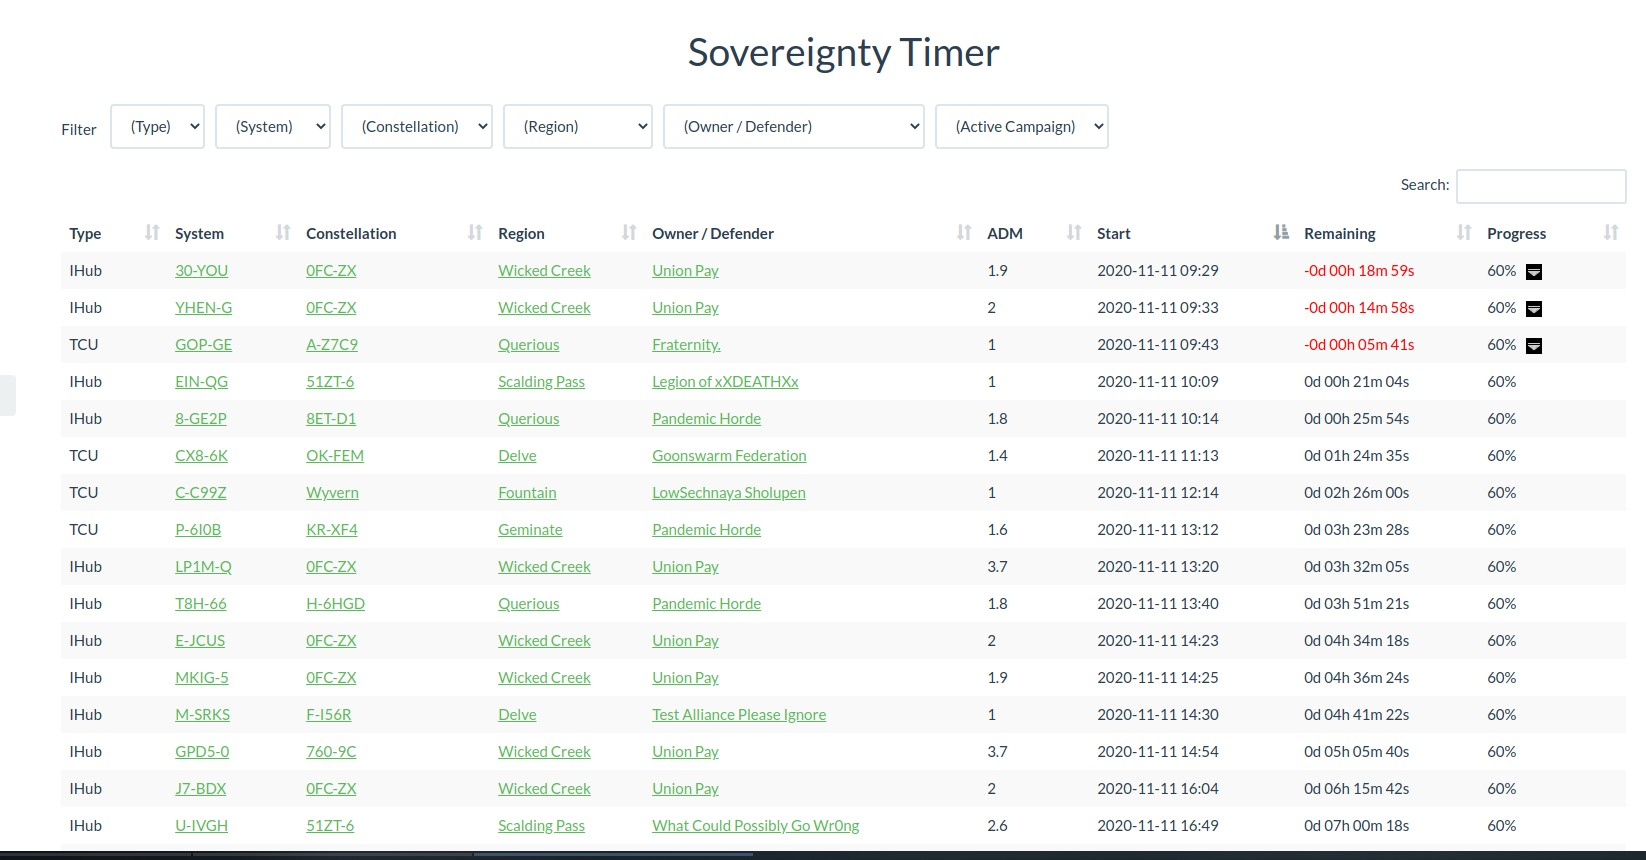
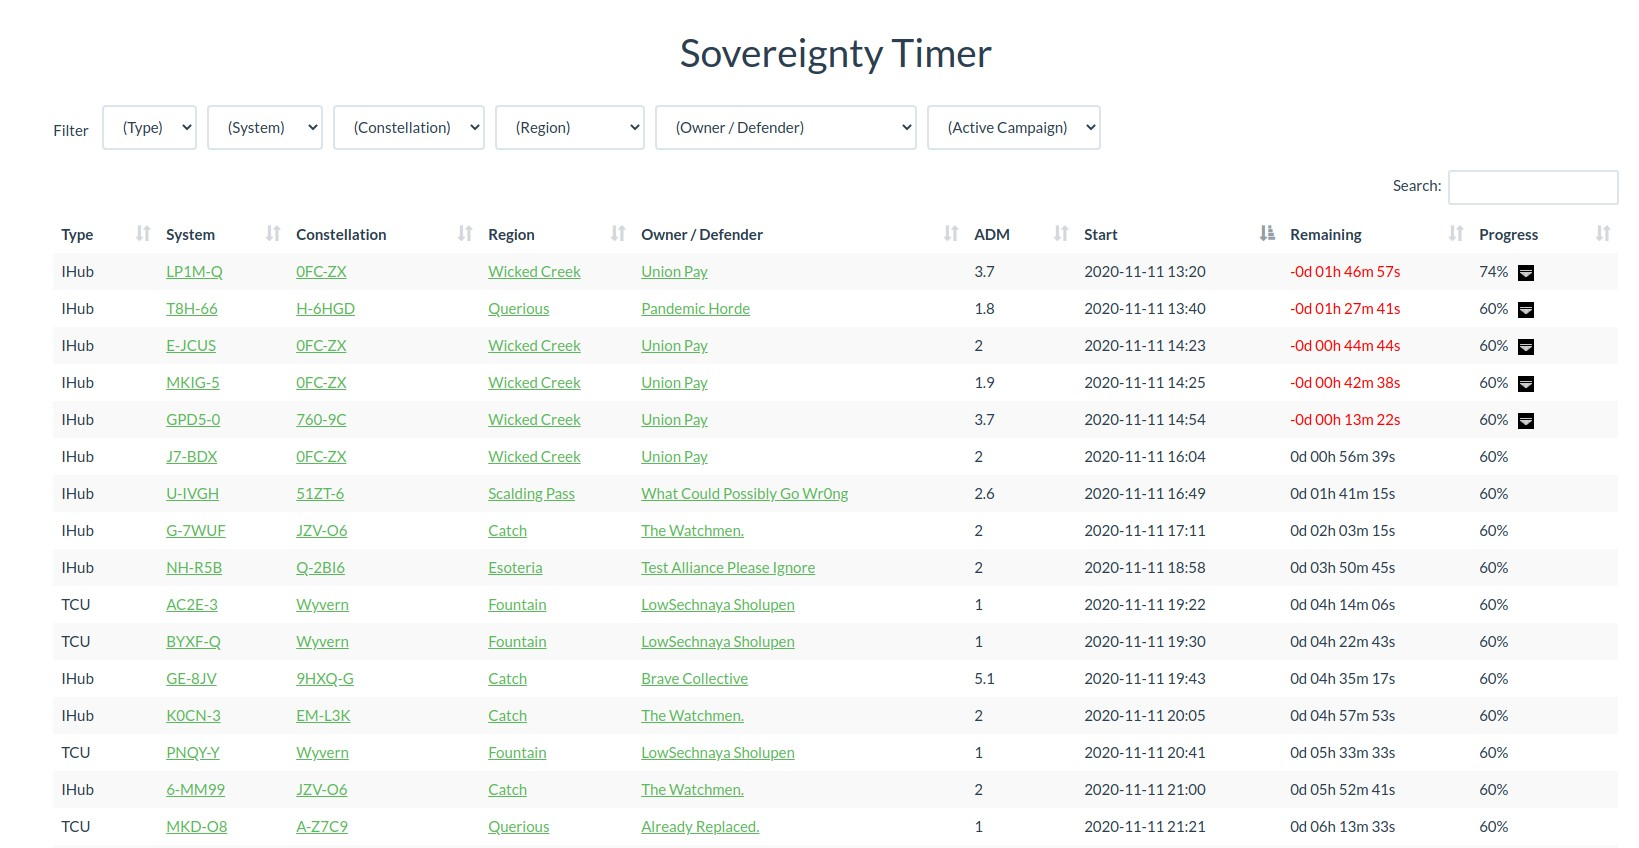
moved campaign update to scheduled task

diff --git a/sovtimer/views.py b/sovtimer/views.py
@@ -4,24 +4,24 @@
 the views
 """
 
-from sovtimer.utils import LoggerAddTag
+
+import datetime as dt
 
 from django.contrib.auth.decorators import login_required, permission_required
-
 from django.http import JsonResponse
 from django.shortcuts import render
 from django.utils.translation import gettext_lazy as _
 
+from eveuniverse.models import EveSolarSystem
+
 from sovtimer import __title__
 from sovtimer.app_settings import avoid_cdn
+from sovtimer.models import AaSovtimerCampaigns
+from sovtimer.providers import esi
+from sovtimer.utils import LoggerAddTag
 
 from allianceauth.services.hooks import get_extension_logger
 
-import datetime as dt
-
-from eveuniverse.models import EveSolarSystem
-
-from sovtimer.providers import esi
 
 logger = LoggerAddTag(get_extension_logger(__name__), __title__)
 
@@ -54,18 +54,16 @@ def dashboard(request):
 def dashboard_data(request) -> JsonResponse:
     data = list()
 
-    sovereignty_campaigns_esi = (
-        esi.client.Sovereignty.get_sovereignty_campaigns().results()
-    )
+    sovereignty_campaigns = AaSovtimerCampaigns.objects.all()
 
-    if sovereignty_campaigns_esi:
+    if sovereignty_campaigns:
         sovereignty_structures_esi = (
             esi.client.Sovereignty.get_sovereignty_structures().results()
         )
 
-        for campaign in sovereignty_campaigns_esi:
+        for campaign in sovereignty_campaigns:
             alliance_esi = esi.client.Alliance.get_alliances_alliance_id(
-                alliance_id=campaign["defender_id"]
+                alliance_id=campaign.defender_id
             ).results()
 
             defender_name = alliance_esi["name"]
@@ -76,9 +74,7 @@ def dashboard_data(request) -> JsonResponse:
                 )
             )
 
-            eve_solar_system = EveSolarSystem.objects.get(
-                id=campaign["solar_system_id"]
-            )
+            eve_solar_system = EveSolarSystem.objects.get(id=campaign.solar_system_id)
 
             solar_system_name = eve_solar_system.name
             solar_system_name_html = (
@@ -107,22 +103,22 @@ def dashboard_data(request) -> JsonResponse:
             structure_adm = 1
             for structure in sovereignty_structures_esi:
                 if (
-                    structure["solar_system_id"] == campaign["solar_system_id"]
+                    structure["solar_system_id"] == campaign.solar_system_id
                 ) and structure["vulnerability_occupancy_level"]:
                     structure_adm = structure["vulnerability_occupancy_level"]
 
-            start_time = campaign["start_time"].replace(tzinfo=None)
+            start_time = campaign.start_time.replace(tzinfo=None)
 
             remaining_time_in_seconds = dt.timedelta(
                 seconds=(start_time.timestamp() - dt.datetime.now().timestamp())
             ).total_seconds()
 
-            attackers_score = campaign["attackers_score"]
+            attackers_score = campaign.attackers_score
             attackers_score_percent = "{:.0f}%".format(attackers_score * 100)
             if (attackers_score * 100) < 10:
                 attackers_score_percent = "0" + attackers_score_percent
 
-            defender_score = campaign["defender_score"]
+            defender_score = campaign.defender_score
             defender_score_percent = "{:.0f}%".format(defender_score * 100)
             if (defender_score * 100) < 10:
                 defender_score_percent = "0" + defender_score_percent
@@ -135,26 +131,26 @@ def dashboard_data(request) -> JsonResponse:
                     '<a href="https://zkillboard.com/constellation/{constellation_id}/" '
                     'target="_blank" rel="noopener noreferer" '
                     'class="aa-sov-timer-zkb-icon">{zkb_icon}</a>'.format(
-                        constellation_id=campaign["constellation_id"],
+                        constellation_id=campaign.constellation_id,
                         zkb_icon='<img src="/static/sovtimer/images/zkillboard.png">',
                     )
                 )
 
             data.append(
                 {
-                    "campaign_id": campaign["campaign_id"],
-                    "event_type": MAP_EVENT_TO_TYPE[campaign["event_type"]],
-                    "solar_system_id": campaign["solar_system_id"],
+                    "campaign_id": campaign.campaign_id,
+                    "event_type": MAP_EVENT_TO_TYPE[campaign.event_type],
+                    "solar_system_id": campaign.solar_system_id,
                     "solar_system_name": solar_system_name,
                     "solar_system_name_html": solar_system_name_html,
-                    "constellation_id": campaign["constellation_id"],
+                    "constellation_id": campaign.constellation_id,
                     "constellation_name": constellation_name,
                     "constellation_name_html": constellation_name_html,
-                    "structure_id": campaign["structure_id"],
+                    "structure_id": campaign.structure_id,
                     "region_name": region_name,
                     "region_name_html": region_name_html,
                     "attackers_score": attackers_score_percent,
-                    "defender_id": campaign["defender_id"],
+                    "defender_id": campaign.defender_id,
                     "defender_name": defender_name,
                     "defender_name_html": defender_name_html,
                     "defender_score": defender_score_percent

diff --git a/sovtimer/tasks.py b/sovtimer/tasks.py
@@ -4,7 +4,96 @@
 the tasks
 """
 
-import logging
+from bravado.exception import (
+    HTTPBadGateway,
+    HTTPGatewayTimeout,
+    HTTPServiceUnavailable,
+)
+
+from celery import shared_task
+
+from eveuniverse.core.esitools import is_esi_online
+
+from sovtimer import __title__
+from sovtimer.models import AaSovtimerCampaigns
+from sovtimer.utils import LoggerAddTag
+
+from allianceauth.services.hooks import get_extension_logger
 
 
-logger = logging.getLogger(__name__)
+logger = LoggerAddTag(get_extension_logger(__name__), __title__)
+
+DEFAULT_TASK_PRIORITY = 6
+ESI_ERROR_LIMIT = 50
+ESI_TIMEOUT_ONCE_ERROR_LIMIT_REACHED = 60
+
+# params for all tasks
+TASK_DEFAULT_KWARGS = {
+    "time_limit": 15,
+}
+
+# params for tasks that make ESI calls
+TASK_ESI_KWARGS = {
+    **TASK_DEFAULT_KWARGS,
+    **{
+        "autoretry_for": (
+            OSError,
+            HTTPBadGateway,
+            HTTPGatewayTimeout,
+            HTTPServiceUnavailable,
+        ),
+        "retry_kwargs": {"max_retries": 3},
+        "retry_backoff": True,
+    },
+}
+
+
+@shared_task(**TASK_DEFAULT_KWARGS)
+def run_sov_campaign_updates() -> None:
+    """
+    update all sov campaigns
+    """
+
+    if not is_esi_online():
+        logger.info(
+            "ESI is currently offline. Can not start ESI related tasks. Aborting"
+        )
+        return
+
+    update_sov_campaigns.apply_async(priority=DEFAULT_TASK_PRIORITY)
+
+
+@shared_task(**TASK_ESI_KWARGS)
+def update_sov_campaigns() -> None:
+    """
+    update campaigns
+    """
+
+    logger.info("Updating sov campaigns from ESI.")
+
+    campaigns_from_esi = AaSovtimerCampaigns.sov_campaigns_from_esi(AaSovtimerCampaigns)
+
+    if campaigns_from_esi:
+        AaSovtimerCampaigns.objects.all().delete()
+        campaigns = list()
+
+        for campaign in campaigns_from_esi:
+            campaigns.append(
+                AaSovtimerCampaigns(
+                    attackers_score=campaign["attackers_score"],
+                    campaign_id=campaign["campaign_id"],
+                    constellation_id=campaign["constellation_id"],
+                    defender_id=campaign["defender_id"],
+                    defender_score=campaign["defender_score"],
+                    event_type=campaign["event_type"],
+                    solar_system_id=campaign["solar_system_id"],
+                    start_time=campaign["start_time"],
+                    structure_id=campaign["structure_id"],
+                )
+            )
+
+        AaSovtimerCampaigns.objects.bulk_create(
+            campaigns,
+            batch_size=500,
+            ignore_conflicts=True,
+        )

diff --git a/sovtimer/models.py b/sovtimer/models.py
@@ -6,6 +6,8 @@ Our Models
 
 from django.db import models
 
+from sovtimer.providers import esi
+
 
 class AaSovtimer(models.Model):
     """
@@ -17,3 +19,40 @@ class AaSovtimer(models.Model):
         managed = False
         default_permissions = ()
         permissions = (("basic_access", "Can access the Sovereignty Timer module"),)
+
+
+class AaSovtimerCampaigns(models.Model):
+    """
+    sov campaigns
+    """
+
+    campaign_id = models.PositiveIntegerField(primary_key=True, db_index=True)
+    attackers_score = models.FloatField()
+    constellation_id = models.PositiveIntegerField()
+    defender_id = models.PositiveIntegerField()
+    defender_score = models.FloatField()
+    event_type = models.CharField(max_length=12)
+    solar_system_id = models.PositiveIntegerField()
+    start_time = models.DateTimeField()
+    structure_id = models.PositiveIntegerField()
+
+    def sov_campaigns_from_esi(self):
+        """
+        get all sov campaigns from ESI
+        :return:
+        """
+
+        sovereignty_campaigns_esi = (
+            esi.client.Sovereignty.get_sovereignty_campaigns().results()
+        )
+
+        return sovereignty_campaigns_esi
+
+    class Meta:
+        """
+        meta definitions
+        """
+
+        verbose_name = "Sovereignty Campaign"
+        verbose_name = "Sovereignty Campaigns"
+        default_permissions = ()

diff --git a/sovtimer/migrations/0002_aasovtimercampaigns.py b/sovtimer/migrations/0002_aasovtimercampaigns.py
@@ -1,0 +1,36 @@
+# Generated by Django 3.1.3 on 2020-11-11 13:19
+
+from django.db import migrations, models
+
+
+class Migration(migrations.Migration):
+
+    dependencies = [
+        ("sovtimer", "0001_initial"),
+    ]
+
+    operations = [
+        migrations.CreateModel(
+            name="AaSovtimerCampaigns",
+            fields=[
+                (
+                    "campaign_id",
+                    models.PositiveIntegerField(
+                        db_index=True, primary_key=True, serialize=False
+                    ),
+                ),
+                ("attackers_score", models.FloatField()),
+                ("constellation_id", models.PositiveIntegerField()),
+                ("defender_id", models.PositiveIntegerField()),
+                ("defender_score", models.FloatField()),
+                ("event_type", models.CharField(max_length=12)),
+                ("solar_system_id", models.PositiveIntegerField()),
+                ("start_time", models.DateTimeField()),
+                ("structure_id", models.PositiveIntegerField()),
+            ],
+            options={
+                "verbose_name": "Sovereignty Campaigns",
+                "default_permissions": (),
+            },
+        ),
+    ]

diff --git a/sovtimer/providers.py b/sovtimer/providers.py
@@ -6,12 +6,6 @@ providers
 
 from esi.clients import EsiClientProvider
 
-from sovtimer import __title__
-from sovtimer.utils import LoggerAddTag, get_swagger_spec_path
-
-from allianceauth.services.hooks import get_extension_logger
-
-
-logger = LoggerAddTag(get_extension_logger(__name__), __title__)
+from sovtimer.utils import get_swagger_spec_path
 
 esi = EsiClientProvider(spec_file=get_swagger_spec_path())

diff --git a/sovtimer/utils.py b/sovtimer/utils.py
@@ -11,8 +11,6 @@ from django.conf import settings
 from django.utils.functional import lazy
 from django.utils.html import format_html
 
-from sovtimer.tasks import logger
-
 
 def clean_setting(
     name: str,

diff --git a/README.md b/README.md
@@ -34,6 +34,17 @@ Configure your AA settings (`local.py`) as follows:
 - Add `'eveuniverse',` to `INSTALLED_APPS`
 - Add `'sovtimer',` to `INSTALLED_APPS`
 
+And setup the update task:
+
+```python
+## AA Sovereignty Timer
+# Run campaign updates every 30 seconds
+CELERYBEAT_SCHEDULE["sovtimer.tasks.run_sov_campaign_updates"] = {
+    "task": "sovtimer.tasks.run_sov_campaign_updates",
+    "schedule": 30.0,
+}
+```
+
 
 ### Step 3 - Finalize the installation
 
